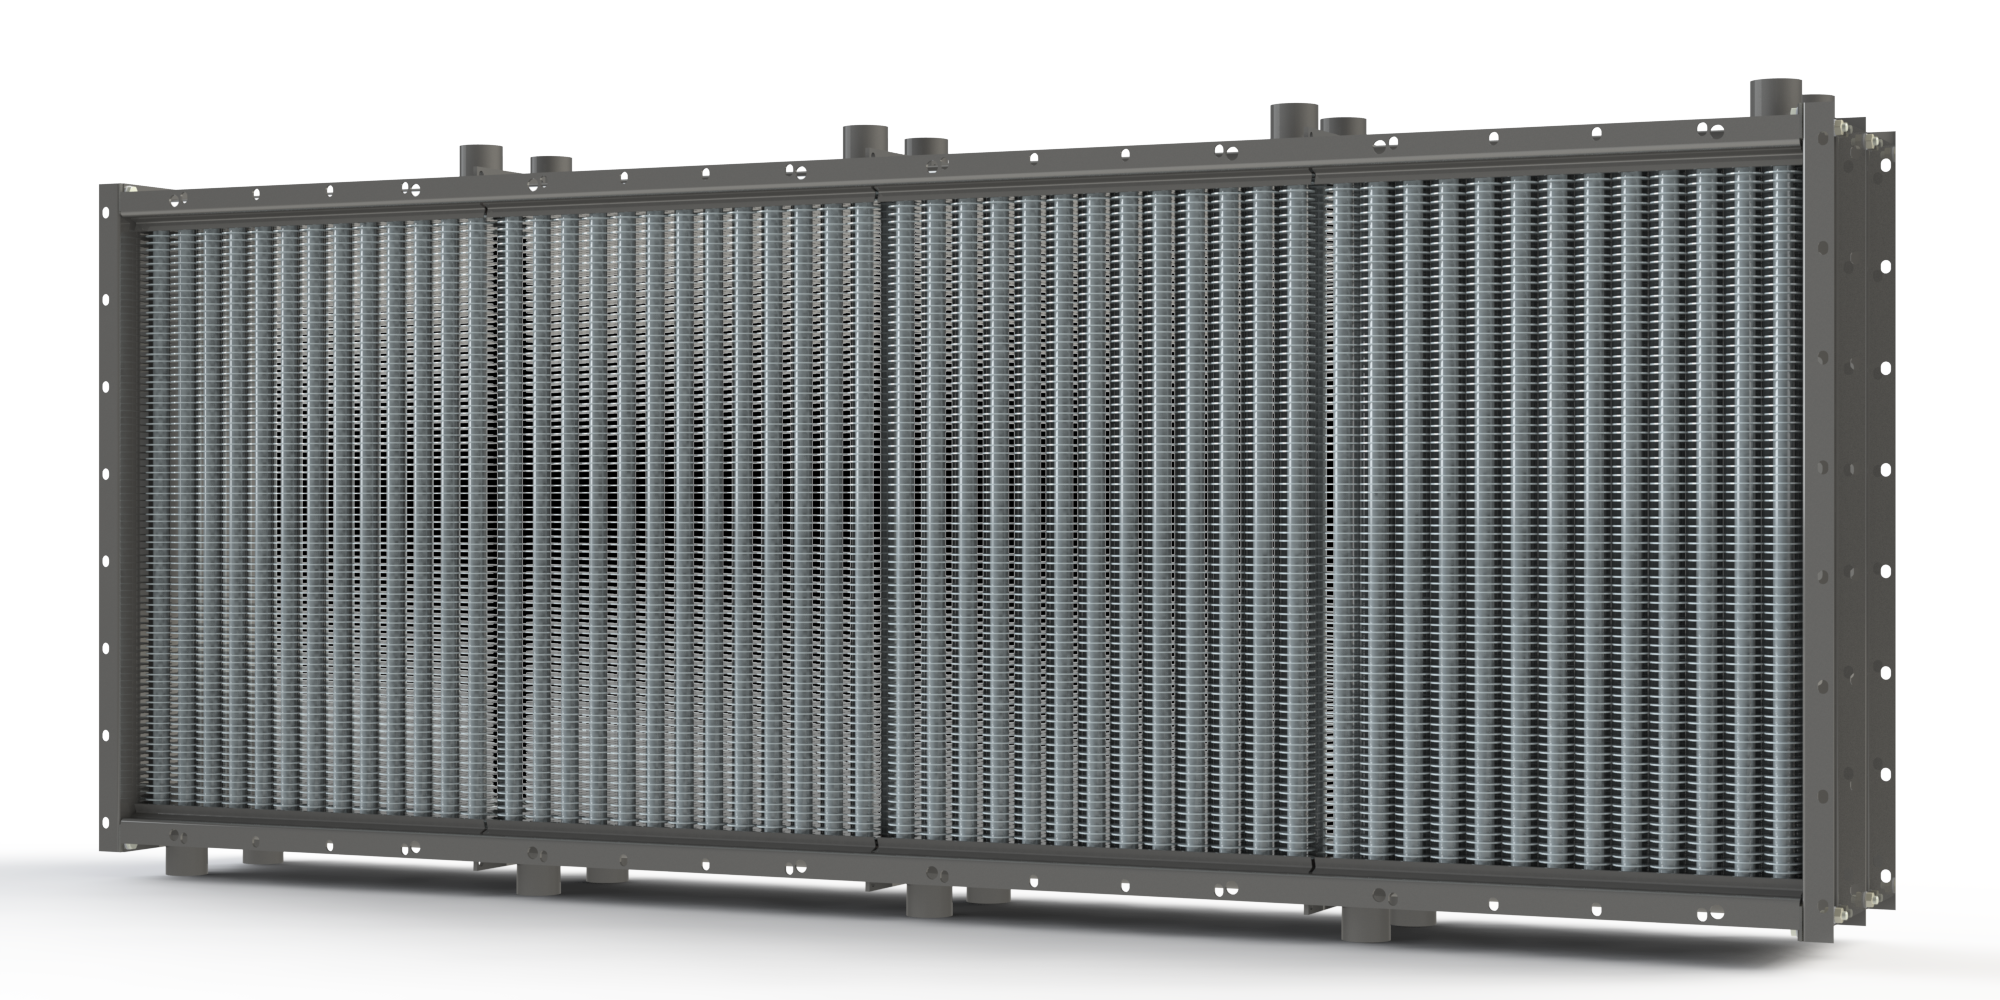
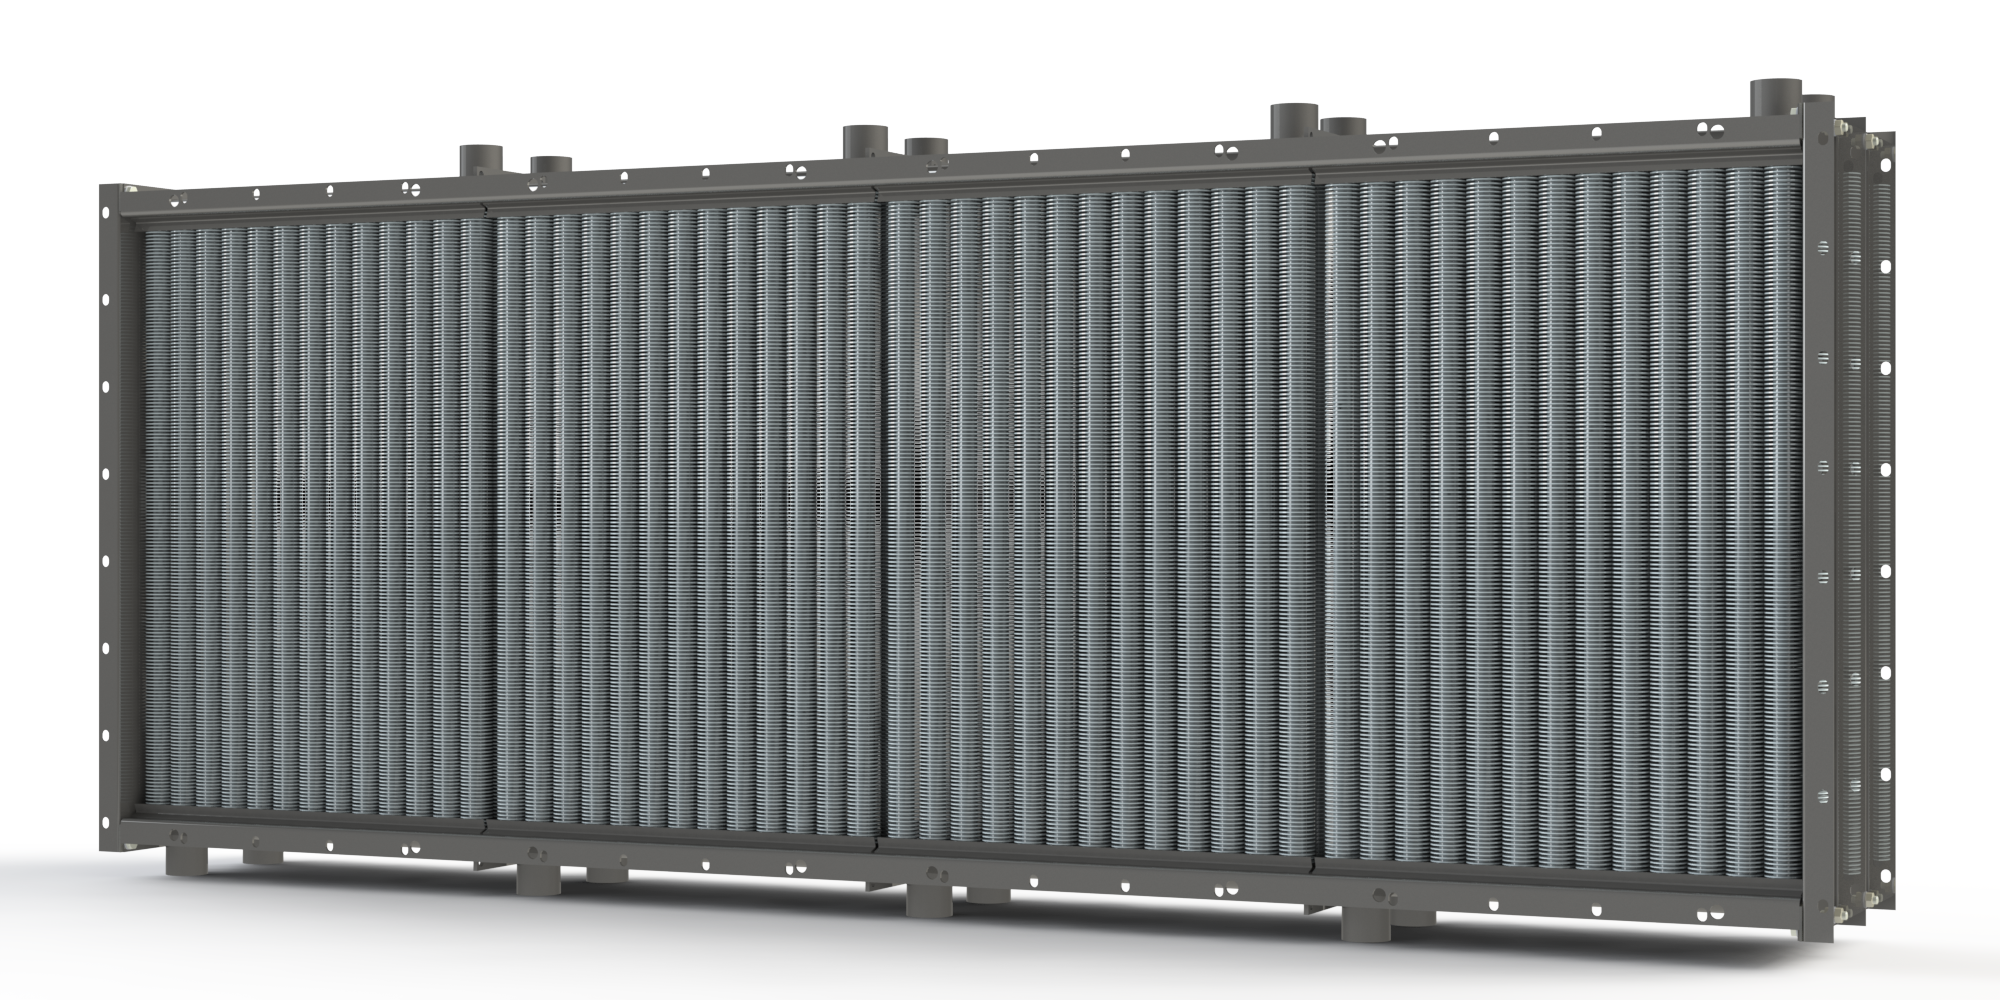
update home catalog section images

Changed region(s): [[0.062, 0.155, 0.961, 0.868], [0.93, 0.279, 0.961, 0.31]]

diff --git a/components/catalog.tsx b/components/catalog.tsx
@@ -34,7 +34,7 @@ const productCategories = [
       {
         name: "Калориферы КПСК",
         url: "/catalog/kpsk",
-        img: "/img/home/kpsk4-6_11_2.png",
+        img: "/img/home/zao_tst_kalorifery_kpsk.png",
       },
       {
         name: "Агрегаты АО 2",
@@ -61,7 +61,7 @@ const productCategories = [
       {
         name: "Калориферы КП",
         url: "/catalog/kp",
-        img: "/img/home/kfbP-4-5_5.png",
+        img: "/img/home/zao_tst_kalorifery_kp.png",
       },
       {
         name: "Агрегаты АВО ХЛ",
@@ -88,7 +88,7 @@ const productCategories = [
       {
         name: "Калориферы КФБ-А ХЛ паровые",
         url: "/catalog/kfb-a-p",
-        img: "/img/home/kfb-p_5.png",
+        img: "/img/home/zao_tst_kalorifery_kfb-p.png",
       },
     ],
   },
